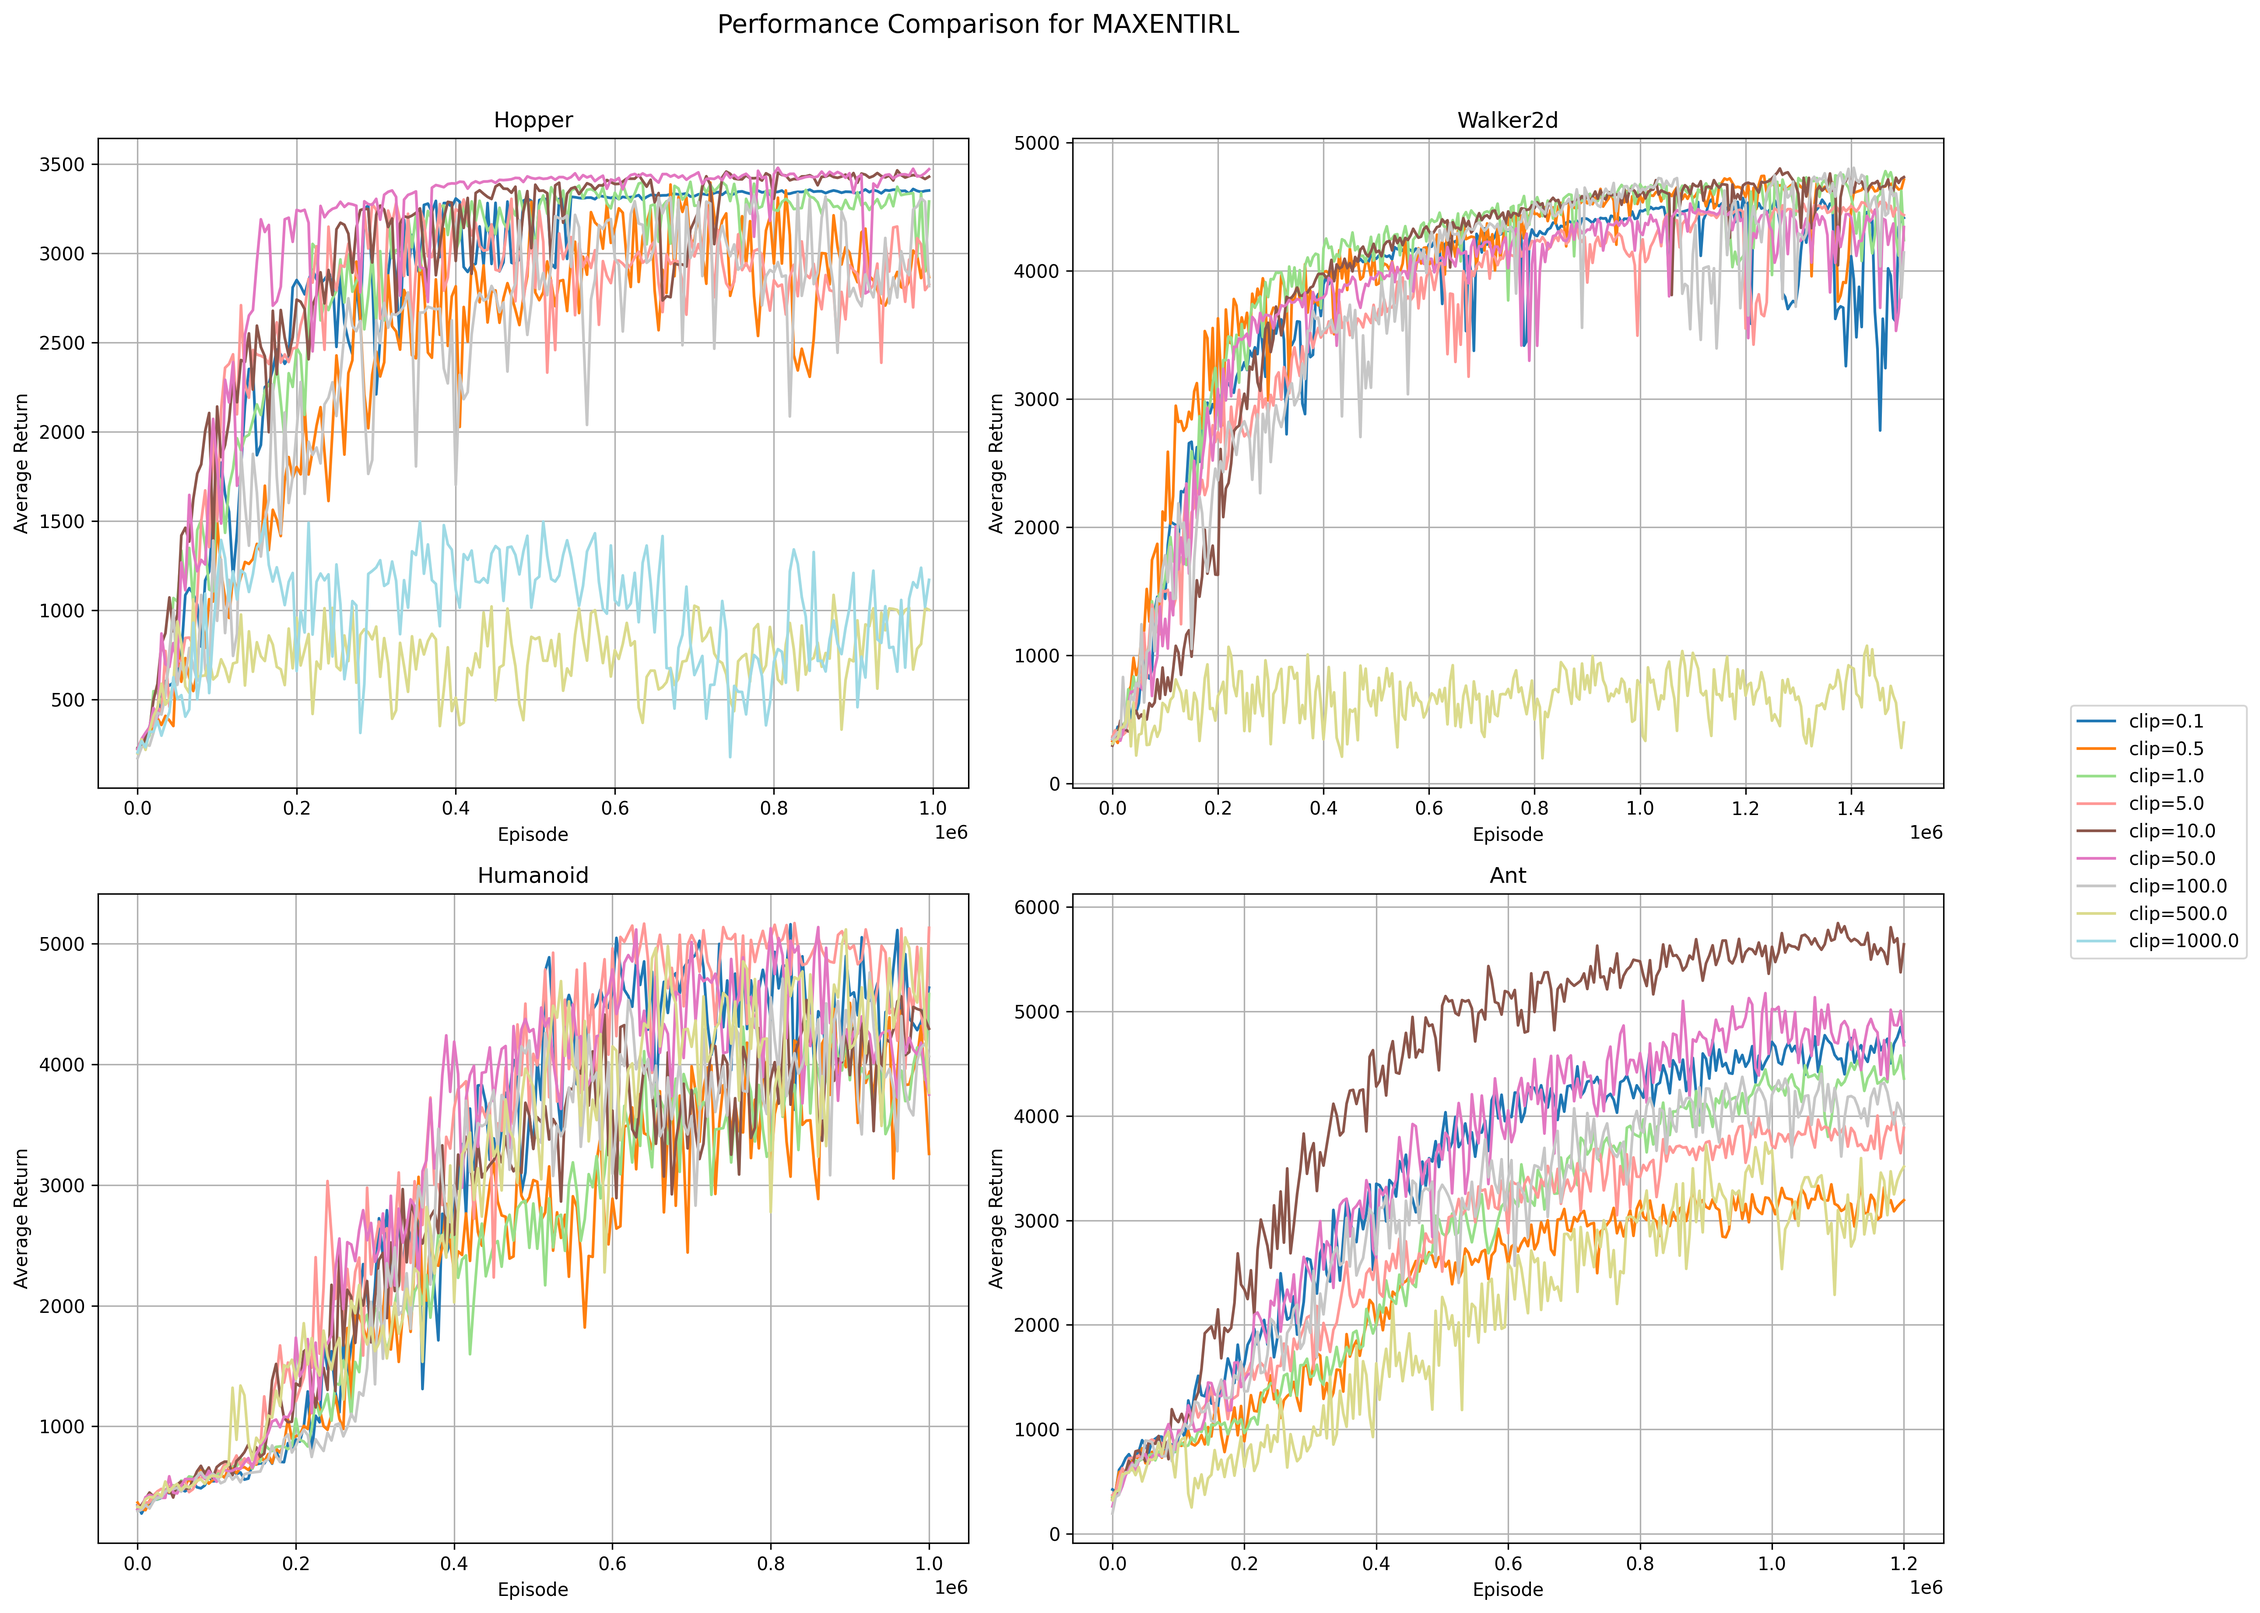
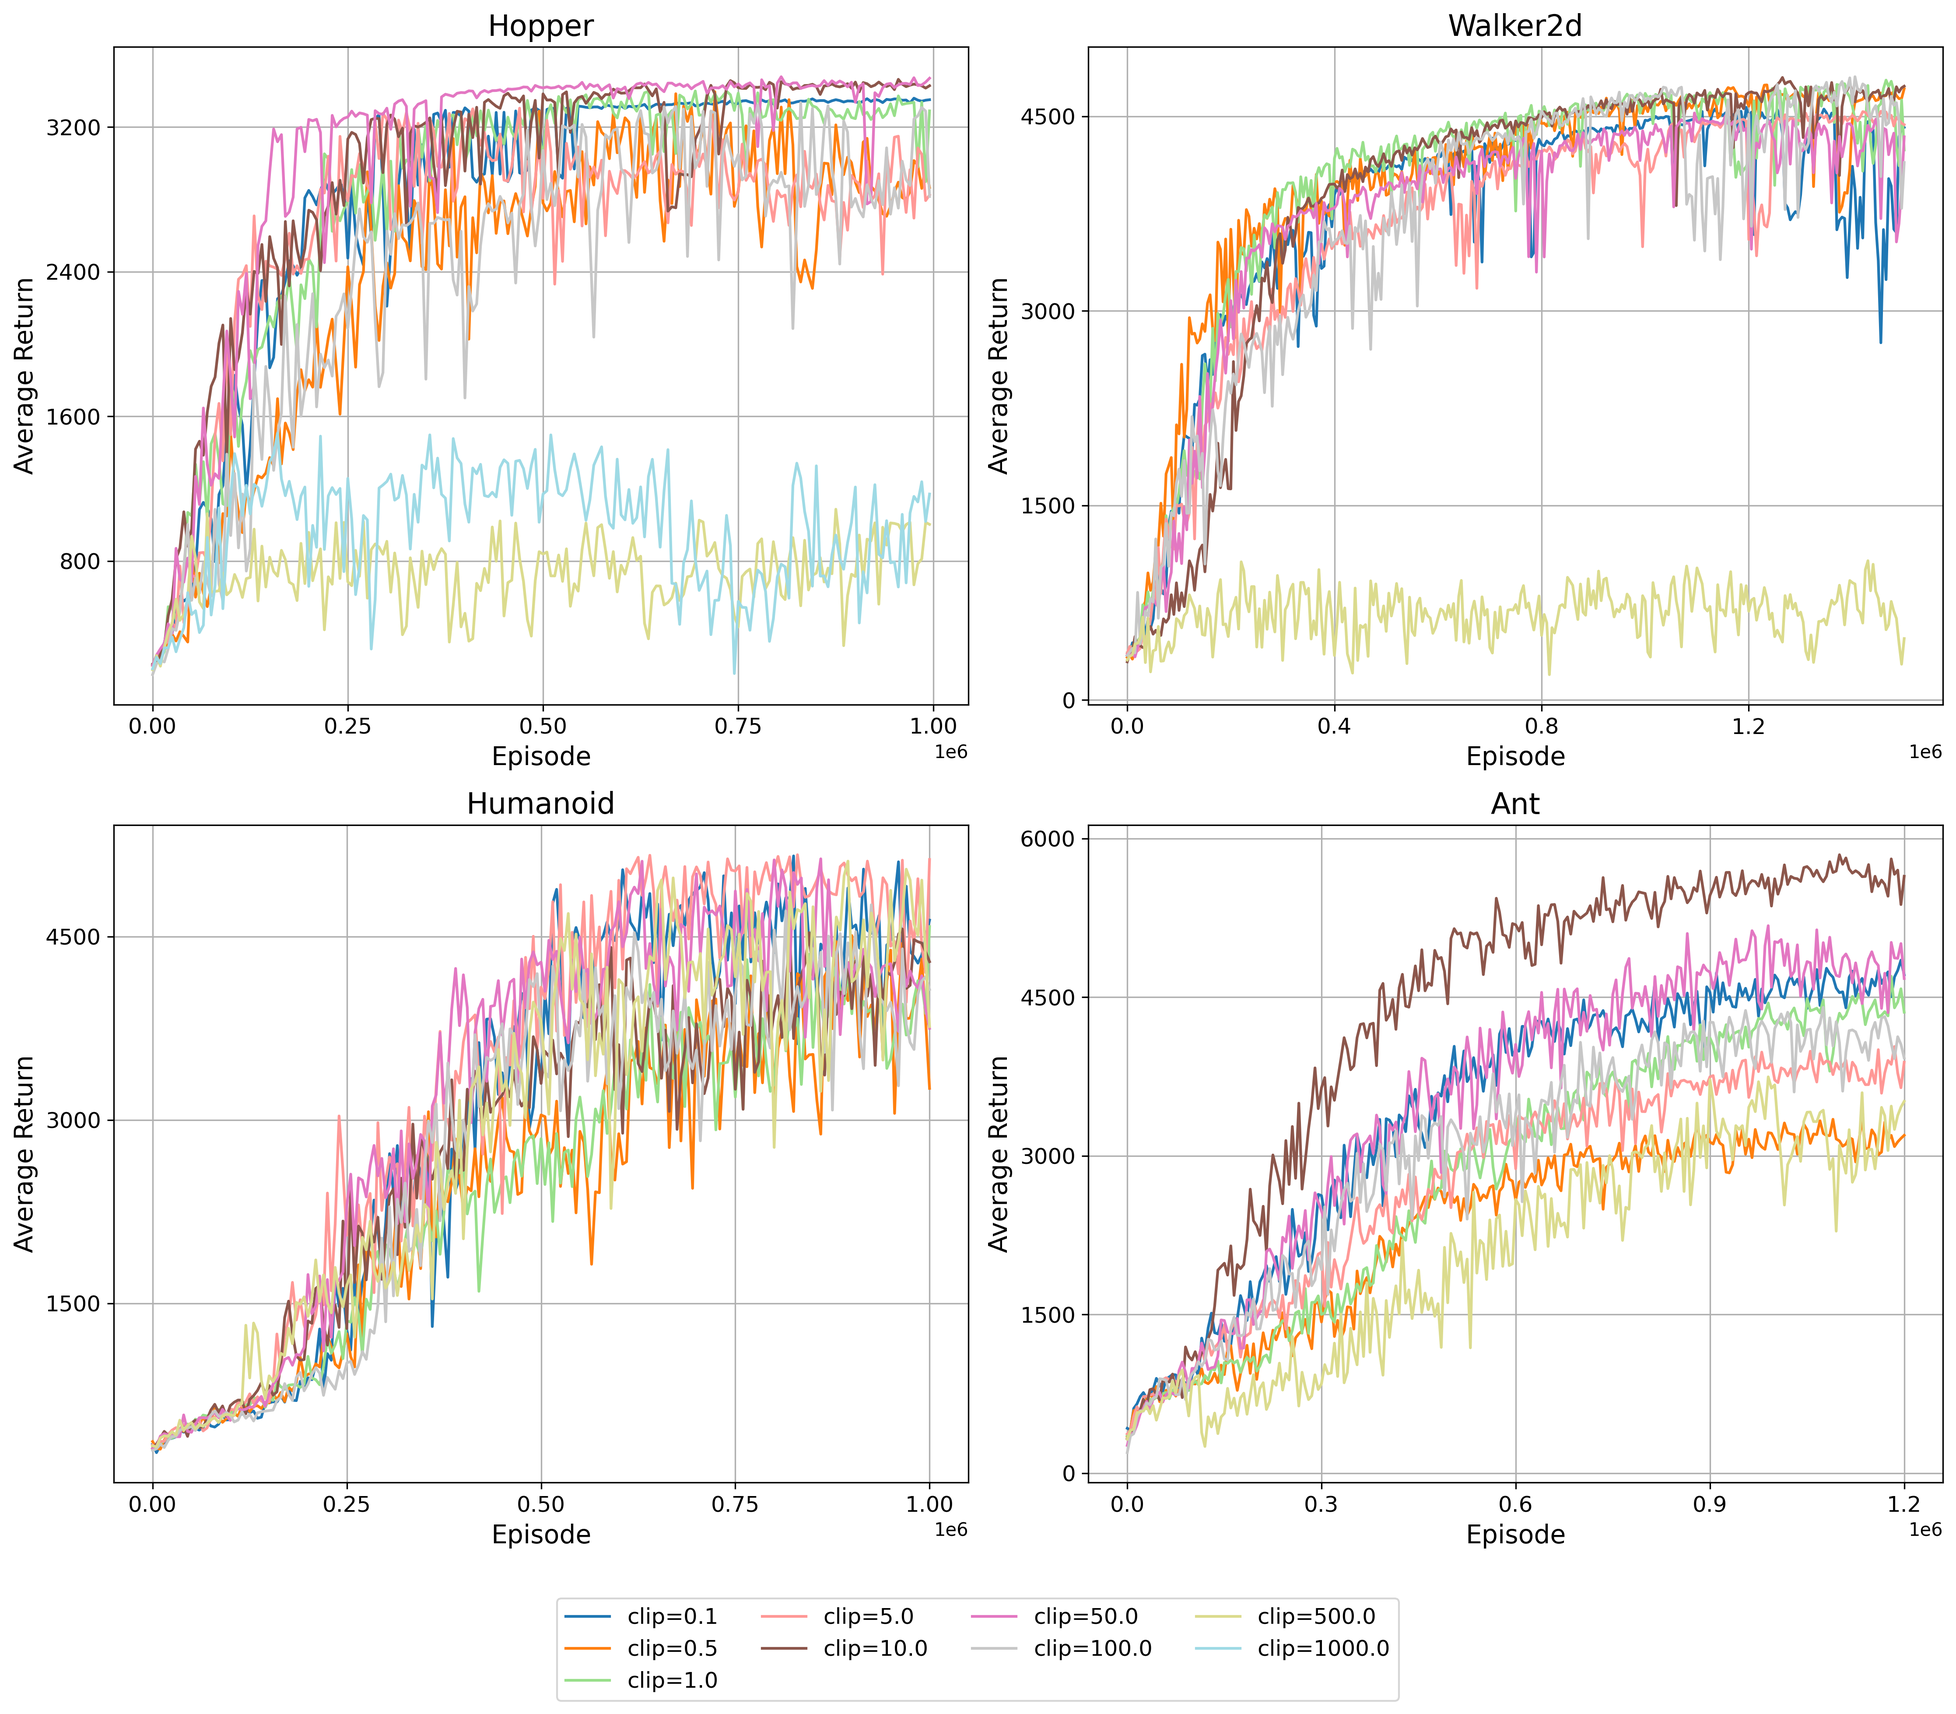
all plots

diff --git a/plots/plot_returns.py b/plots/plot_returns.py
@@ -24,7 +24,7 @@ def create_returns_plot(
 ) -> None:
     """Create and save a plot of returns for specified q and clip values."""
     
-    plt.figure(figsize=(10, 6))
+    plt.figure(figsize=(10, 7))
     
     # Convert single DataFrame to list for consistent processing
     if isinstance(data, pd.DataFrame):
@@ -195,20 +195,18 @@ def create_method_comparison_figure(
     """
     Create a figure with subplots comparing different environments for a specific method.
     Each subplot shows the performance across different clipping values.
-    
-    Args:
-        folder_path: Path to the folder containing the CSV files
-        method: Method to analyze (e.g., 'maxentirl', 'rkl', 'cisl', 'maxentirl_sa')
-        environments: List of environments to include
-        clip_values: List of clipping values to plot
-        max_episodes_dict: Dictionary specifying maximum episodes for each environment
-        show_confidence: Whether to show confidence intervals
     """
     folder = Path(folder_path)
     
     # Create a figure with subplots
     fig, axes = plt.subplots(2, 2, figsize=(15, 12))
     axes = axes.flatten()
+    
+    # Set font sizes
+    TITLE_SIZE = 16
+    AXIS_LABEL_SIZE = 14
+    TICK_SIZE = 12
+    LEGEND_SIZE = 12
     
     # Dictionary to store all unique clip values found in the data
     all_clip_values = set()
@@ -223,7 +221,6 @@ def create_method_comparison_figure(
             print(f"No files found for {env} with method {method}")
             continue
             
-        # Load and combine data from all matching files
         dfs = []
         for file in files:
             df = pd.read_csv(file)
@@ -234,26 +231,19 @@ def create_method_comparison_figure(
             
         combined_df = pd.concat(dfs, ignore_index=True)
         
-        # Truncate data if max_episodes is specified
         if max_episodes_dict and env in max_episodes_dict:
             combined_df = combined_df[combined_df['episode'] <= max_episodes_dict[env]]
         
-        # Store unique clip values and processed data
         env_clip_values = combined_df['clip'].unique()
         all_clip_values.update(env_clip_values)
         env_clip_data[env] = combined_df
     
-    # Sort clip values for consistent colors
     all_clip_values = sorted(all_clip_values)
-    
-    # Create color map for all possible clip values
     color_map = plt.cm.get_cmap('tab20')(np.linspace(0, 1, len(all_clip_values)))
     clip_to_color = dict(zip(all_clip_values, color_map))
     
-    # Store all lines and labels for the shared legend
     legend_elements = []
     
-    # Second pass: create plots
     for idx, env in enumerate(environments):
         ax = axes[idx]
         
@@ -262,7 +252,6 @@ def create_method_comparison_figure(
             
         combined_df = env_clip_data[env]
         
-        # Plot each clipping value
         for clip in all_clip_values:
             data_subset = combined_df[combined_df['clip'] == clip]
             if len(data_subset) > 0:
@@ -282,36 +271,47 @@ def create_method_comparison_figure(
                         alpha=0.2
                     )
                 
-                # Only store lines for legend from the first time we see each clip value
                 if not any(f'clip={clip}' == label.get_label() for label in legend_elements):
                     legend_elements.extend(line)
         
-        # Customize subplot
-        ax.set_title(env.replace('-v5', ''))
-        ax.set_xlabel('Episode')
-        ax.set_ylabel('Average Return')
+        # Customize subplot with larger fonts
+        ax.set_title(env.replace('-v5', ''), fontsize=TITLE_SIZE)
+        ax.set_xlabel('Episode', fontsize=AXIS_LABEL_SIZE)
+        ax.set_ylabel('Average Return', fontsize=AXIS_LABEL_SIZE)
         ax.grid(True)
+        
+        # Reduce tick frequency and increase font size
+        ax.tick_params(axis='both', which='major', labelsize=TICK_SIZE)
+        ax.xaxis.set_major_locator(plt.MaxNLocator(5))  # Reduce number of x-ticks
+        ax.yaxis.set_major_locator(plt.MaxNLocator(5))  # Reduce number of y-ticks
     
-    # Add shared legend outside the plots
-    fig.legend(legend_elements, [f'clip={clip}' for clip in all_clip_values], 
-              bbox_to_anchor=(1.05, 0.5), loc='center left')
+    # Adjust layout first
+    plt.tight_layout(rect=[0, 0, 1, 1])  # Leave space at top for title
     
-    # Add overall title
-    fig.suptitle(f'Performance Comparison for {method.upper()}', 
-                y=1.02, fontsize=14)
+    # Add overall title with larger font - now after tight_layout
+    # fig.suptitle(f'Performance Comparison for {method.upper()}', 
+    #             fontsize=TITLE_SIZE + 2,
+    #             y=0.98)  # Move title up slightly
     
-    # Adjust layout to prevent overlap
-    plt.tight_layout()
+    # Add shared legend below the plots
+    legend = fig.legend(legend_elements, 
+                       [f'clip={clip}' for clip in all_clip_values],
+                       loc='center',
+                       bbox_to_anchor=(0.5, -0.05),
+                       ncol=4,
+                       fontsize=LEGEND_SIZE)
     
-    # Save figure
+    # Save figure with extra bottom margin for legend
     save_path = Path("plots") / "method_comparisons"
     save_path.mkdir(parents=True, exist_ok=True)
     confidence_suffix = "_with_ci" if show_confidence else "_without_ci"
     plt.savefig(save_path / f'{method}_comparison{confidence_suffix}.png', 
-                bbox_inches='tight', dpi=300)
+                bbox_inches='tight',
+                dpi=300,
+                bbox_extra_artists=(legend,))
     plt.close()
 
-# Example usage
+# The create_all_method_comparisons function remains the same
 def create_all_method_comparisons(
     folder_path: str,
     methods: List[str] = ['maxentirl', 'rkl', 'cisl', 'maxentirl_sa'],
@@ -324,15 +324,6 @@ def create_all_method_comparisons(
     },
     show_confidence: bool = True
 ):
-    """
-    Create comparison figures for all specified methods.
-    
-    Args:
-        folder_path: Path to the folder containing the CSV files
-        methods: List of methods to analyze
-        max_episodes_dict: Dictionary specifying maximum episodes for each environment
-        show_confidence: Whether to show confidence intervals
-    """
     for method in methods:
         print(f"Creating comparison figure for {method}...")
         create_method_comparison_figure(
